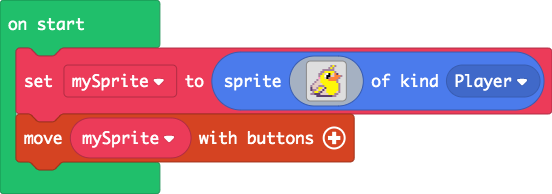
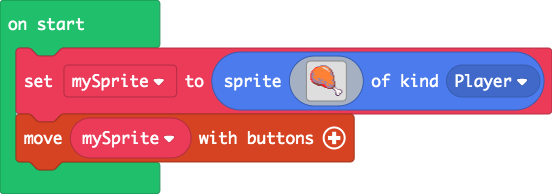
Update main.blocks, main.ts

Changed region(s): [[0.5543, 0.3093, 0.6467, 0.5258]]

diff --git a/main.ts b/main.ts
@@ -20,21 +20,37 @@ namespace myTiles {
 `
 }
 let mySprite = sprites.create(img`
-. . . . . . . . . . b 5 b . . . 
-. . . . . . . . . b 5 b . . . . 
-. . . . . . b b b b b b . . . . 
-. . . . . b b 5 5 5 5 5 b . . . 
-. . . . b b 5 d 1 f 5 d 4 c . . 
-. . . . b 5 5 1 f f d d 4 4 4 b 
-. . . . 3 5 5 d f b 4 4 4 4 b . 
-. . . b d 5 5 5 5 4 4 4 4 b . . 
-. . b d d 5 5 5 5 5 5 5 5 b . . 
-. b d d d d 5 5 5 5 5 5 5 5 b . 
-b d d d b b b 5 5 5 5 5 5 5 b . 
-c d d b 5 5 d c 5 5 5 5 5 5 b . 
-c b b d 5 d c d 5 5 5 5 5 5 b . 
-. b 5 5 b c d d 5 5 5 5 5 d b . 
-b b c c c d d d d 5 5 5 b b . . 
-. . . c c c c c c c c b b . . . 
+. . . . . . . . . . b b b b b b . . . . . . . . . . . . . . . . 
+. . . . . . . b b b 4 4 4 4 4 4 b b . . . . . . . . . . . . . . 
+. . . . . 2 2 4 4 4 4 4 d d d 4 4 4 b . . . . . . . . . . . . . 
+. . . . 2 4 4 4 4 4 4 4 4 d d d d 4 4 e . . . . . . . . . . . . 
+. . . 2 4 4 4 4 4 4 4 4 4 4 4 d d d 4 b e . . . . . . . . . . . 
+. . 2 4 4 4 4 4 4 4 4 4 4 4 4 4 4 d 4 4 b e . . . . . . . . . . 
+. 2 b 4 4 4 4 4 4 4 4 4 4 4 4 4 4 4 d 4 b e . . . . . . . . . . 
+. 2 b 4 4 4 4 4 4 4 4 4 4 4 4 4 4 4 4 4 b b e . . . . . . . . . 
+2 b b b 4 4 4 4 4 4 4 4 4 4 4 4 4 4 4 4 b b e . . . . . . . . . 
+2 b b b 4 4 4 4 4 4 4 4 4 4 4 4 4 4 4 4 b b e . . . . . . . . . 
+2 b b 4 b 4 4 4 4 4 4 4 4 4 4 4 4 4 4 4 4 b b e . . . . . . . . 
+2 b b 4 4 4 4 4 4 4 4 4 4 4 4 4 4 4 4 4 4 4 b e . . . . . . . . 
+2 b b 4 4 4 4 4 4 4 4 4 4 4 4 4 4 4 4 4 4 4 4 e . . . . . . . . 
+2 b b b 4 4 4 b b b 4 4 4 4 4 4 4 4 4 4 4 4 4 e . . . . . . . . 
+2 2 b b b 4 4 4 b b 4 b b 4 4 4 4 4 4 4 4 4 b e . . . . . . . . 
+. 2 b b b b b 4 4 b b b b 4 4 4 4 4 4 4 4 b b e . . . . . . . . 
+. 2 2 b b b b b b b b 4 4 b b b 4 4 4 4 4 4 b b e . . . . . . . 
+. . e e e b b b b b b b 4 4 b b b 4 4 4 4 4 4 b e . . . . . . . 
+. . . e e e e e b b b b b b b b 4 4 b 4 4 4 4 b e . . . . . . . 
+. . . . . e e e e e e 2 2 2 b b 4 4 b b b 4 b b e . . . . . . . 
+. . . . . . . e e e e e 2 2 2 b b 4 4 b b b b e e . . . . . . . 
+. . . . . . . . . . . . e 2 2 2 b b b b b b b e c . . . . . . . 
+. . . . . . . . . . . . . . e e 2 b b b b e e b d b . . . . . . 
+. . . . . . . . . . . . . . . . . e e e e e c d d d b . . . . . 
+. . . . . . . . . . . . . . . . . . . . . . . c d 1 1 b b b b . 
+. . . . . . . . . . . . . . . . . . . . . . . . c d 1 1 1 d b b 
+. . . . . . . . . . . . . . . . . . . . . . . . . b 1 1 1 1 1 c 
+. . . . . . . . . . . . . . . . . . . . . . . . . c 1 1 d d 1 c 
+. . . . . . . . . . . . . . . . . . . . . . . . . c d 1 d b c . 
+. . . . . . . . . . . . . . . . . . . . . . . . . c b 1 1 c . . 
+. . . . . . . . . . . . . . . . . . . . . . . . . . c c c . . . 
+. . . . . . . . . . . . . . . . . . . . . . . . . . . . . . . . 
 `, SpriteKind.Player)
 controller.moveSprite(mySprite)
